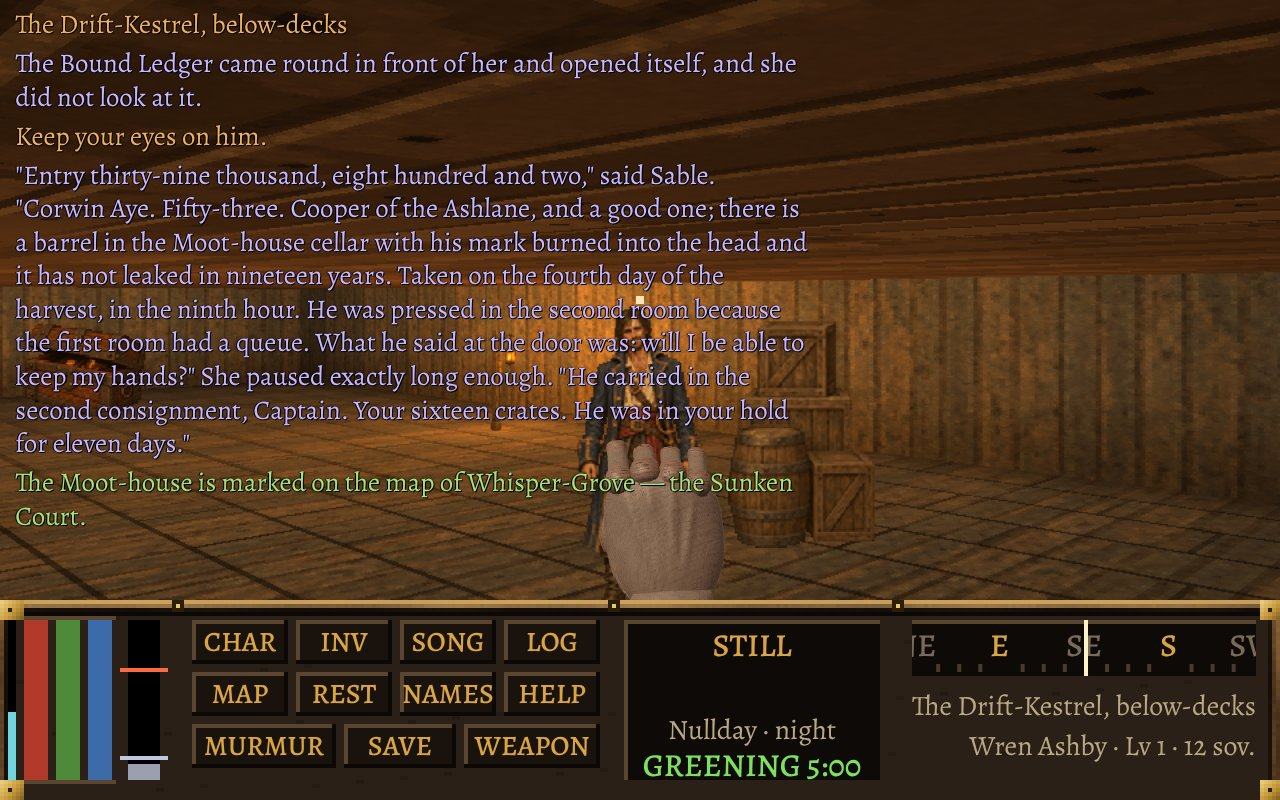
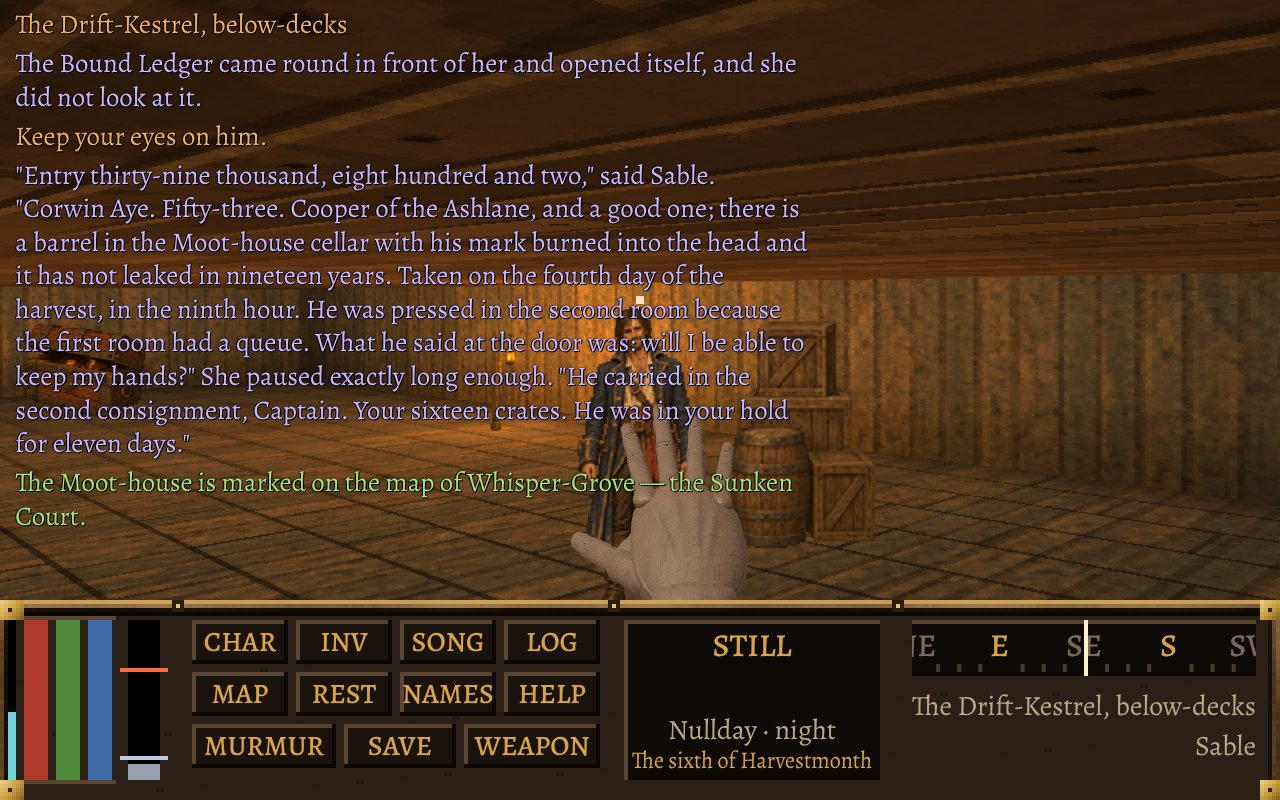
Sable's good hand lies flat on the lid: a hand at rest, open, in both sets of hands (written first)
"She put her good hand flat on the lid" (Book One, MS l. 4518). It had been drawn as a fist. One new hand
picture: PIXELHANDS110.restArt / restHand (the Songs' open hand turned to lie flat, the wrist bent so the
forearm falls down the view), the same pose for the sculpted hands (poses 'r', BODY21.sculptRest), and
js/boots125.js asks for it where the pose is the lid.

test/pixelhands110: a hand at rest (size, fingers apart, the switch, the sculpted pose). test/boots125 10c.
tools/dev/shots125b.js: VIEW=classic and HANDS=pixel|plain, to look at each style.

The record of the cheap wins, Vol VIII, README with a picture, ROADMAP, the Phase 125b record.

Claude-Session: https://claude.ai/code/session_01UK584LzooQWiw2H2iZPqku

Changed region(s): [[0.4375, 0.5, 0.5938, 0.75], [0.75, 0.9062, 0.9688, 0.9688], [0.5, 0.9375, 0.6875, 0.9688]]

diff --git a/js/pixelhands110.js b/js/pixelhands110.js
@@ -897,6 +897,38 @@ const PIXELHANDS110 = (() => {
     return true;
   }
 
+  // ---------------------------------------------------------------- a hand at rest: open, laid flat (js/boots125.js)
+  // (26 Nov) "She put her good hand flat on the lid" (Book One, MS l. 4518). An open hand laid flat on something at desk
+  // height, seen from above and behind: the back of the hand up, the fingers pointing away, the forearm down out of the
+  // bottom of the view. To the fist's own measure (climbArt above), 4 picture pixels to a view pixel.
+  const RS = { w: 84, h: 150, px: 42, py: 40 };     // in view pixels: the picture's size, where the middle of the palm is
+  function restPose(left) {
+    const P = { f: frame([0, 0.66, -0.7513], [0, 0.7513, 0.66]), s: 34 * 4 / 9.2 / GR, ax: 0, ay: 0, D, mirror: !!left, roll: left ? -4 : 4 };
+    const c = scr(P, PALM_C); P.ax = RS.px * 4 / GR - c[0]; P.ay = RS.py * 4 / GR - c[1];
+    return P;
+  }
+  function restArt(look, left) {
+    const ck = KEYP + 'r|' + (left ? 'L' : 'R') + '|' + lookKey(look), cache = FP87.cache; let hit = cache.get(ck); if (hit) return hit;
+    const Wf = RS.w * 4, Hf = RS.h * 4; plain(Wf, Hf);
+    const wear = wearOf(look), S = Scene();
+    // (the wrist bends, flexW: the forearm falls down the view; straight on along the hand it would come at the eye and fill the view)
+    addHand(S, restPose(left), { curl: 'open', wear, glass: !!left && !!(look && look.glassArm), foreLen: 46, flexW: 34 });
+    const out = finish(compose(shadeScene(S, wear), null), 0, Wf, Hf);
+    hit = { canvas: out.canvas, emis: out.emis };
+    if (cache.size > 40) cache.clear();
+    cache.set(ck, hit);
+    return hit;
+  }
+  // i: 0 the left hand, 1 the right; (x, y): where the middle of the palm lies, in view pixels
+  function restHand(ctx, i, x, y) {
+    if (!on()) return false;
+    let look = null; try { look = typeof GEARLOOK21 === 'object' && G.player ? GEARLOOK21.of(G.player) : null; } catch (e) { look = null; }
+    if (!look) return false;
+    const a = restArt(look, i === 0);
+    ctx.drawImage(a.canvas, x - RS.px, y - RS.py, RS.w, RS.h);
+    return true;
+  }
+
   // ---------------------------------------------------------------- the arm behind a shield (js/body21.js)
   // Phase 111. The shield rides the left forearm, its face toward you: the forearm comes up from below behind it, the palm
   // against its back, and the four fingers are hooked over its rim onto the face. Two pictures, to the same measure: the
@@ -931,9 +963,9 @@ const PIXELHANDS110 = (() => {
   const PALM_C = [0, 5, 0];
   function poses(kind, id, look) {
     if (!_paint) return null;
-    const lone = kind === 'c' || kind === 'o';
+    const lone = kind === 'c' || kind === 'o' || kind === 'r';
     const r = lone ? null : kind === 'w' ? _paint(id, look, { noHands: true }) : _paintHands(look, id, { noHands: true }); if (!r && !lone) return null;
-    const Wf = lone ? (kind === 'c' ? CL.w : OA.w) * 4 : r.canvas.width, Hf = lone ? (kind === 'c' ? CL.h : OA.h) * 4 : r.canvas.height; plain(Wf, Hf);
+    const LN = kind === 'c' ? CL : kind === 'r' ? RS : OA, Wf = lone ? LN.w * 4 : r.canvas.width, Hf = lone ? LN.h * 4 : r.canvas.height; plain(Wf, Hf);
     const wear = wearOf(look), out = { w: Wf, h: Hf, weapon: kind === 'w' ? r.canvas : null, hands: [] };
     const give = (P, curl, anchor, glass, dev, flexW) => {
       const a = scr(P, anchor); let arm = [0, -1, 0]; if (dev) arm = rot(arm, [0, 0, 1], dev * D2R); if (flexW) arm = rot(arm, [1, 0, 0], flexW * D2R);
@@ -946,6 +978,14 @@ const PIXELHANDS110 = (() => {
       give(P, 'grip', GRIP_C, left && !!(look && look.glassArm), 0, 0);
       // (a forearm that ran on along the hand would come at the eye and fill the view: the wrist bends, and it hangs nearly straight down)
       const h = out.hands[0], a = [h.arm[0] * 0.5, -0.97, 0.06], l = Math.hypot(a[0], a[1], a[2]); h.arm = [a[0] / l, a[1] / l, a[2] / l];
+      return out;
+    }
+    if (kind === 'r') {
+      // an open hand laid flat (restArt above): id 'L' the left hand, 'R' the right
+      const left = id === 'L', P = restPose(left);
+      give(P, 'open', PALM_C, left && !!(look && look.glassArm), 0, 0);
+      // (as in the climb: the wrist bends back, so the forearm falls down the view and does not come at the eye)
+      const h = out.hands[0], a = [h.arm[0] * 0.5, -0.95, 0.3], l = Math.hypot(a[0], a[1], a[2]); h.arm = [a[0] / l, a[1] / l, a[2] / l];
       return out;
     }
     if (kind === 'o') {
@@ -1057,6 +1097,6 @@ const PIXELHANDS110 = (() => {
     return finish(compose(shadeScene(S, wear), null), 0, spec.w, spec.h);
   }
 
-  return { FLAG, GR, on, setOn, paint, paintHands, climbHand, climbArt, offArm, songCanvas, poses, CL, OA, wearOf, ROW, stats, MRG, original: () => (FP87 && FP87._px110) || null, _raise: (o) => { RAISE = Object.assign({}, RAISE, o); }, _dev: { hands: devHands } };
+  return { FLAG, GR, on, setOn, paint, paintHands, climbHand, climbArt, restHand, restArt, RS, offArm, songCanvas, poses, CL, OA, wearOf, ROW, stats, MRG, original: () => (FP87 && FP87._px110) || null, _raise: (o) => { RAISE = Object.assign({}, RAISE, o); }, _dev: { hands: devHands } };
 })();
 if (typeof window !== 'undefined') window.PIXELHANDS110 = PIXELHANDS110;

diff --git a/tools/dev/shots125b.js b/tools/dev/shots125b.js
@@ -2,6 +2,7 @@
 // off. Medium preset, the 3D view, the sculpted hands. Each moment is staged as test/boots125.test.js stages it and
 // stepped to its beat; the picture is the visible game canvas (the 3D view, the HUD and the captions) as a JPEG, q 85.
 //   PREVIEW_URL=http://127.0.0.1:4228 tools/dev/browser.sh node tools/dev/shots125b.js [OUTDIR] [needle hold bolts rope names coda frame off]
+//   env: VIEW=classic (not the 3D view), HANDS=pixel or plain (not the sculpted hands)
 // No Math.random: the game's own is pinned for each frame, as test/cover105.test.js pins it.
 'use strict';
 const { chromium } = require(process.env.PLAYWRIGHT_MODULE || '/opt/npm-tools/node_modules/playwright');
@@ -15,18 +16,18 @@ const want = (k) => !ONLY.length || ONLY.includes(k);
   const page = await browser.newPage({ viewport: { width: 1280, height: 800 } });
   page.setDefaultTimeout(900000);
   page.on('pageerror', (e) => console.log('[pageerror]', e.message));
-  await page.addInitScript(() => { window.__r3d21 = { automation: true, force: true }; try { localStorage.setItem('octave.r3d21.v1', JSON.stringify({ mode: 'on', cap: 80 })); } catch (e) { /* none */ } });
+  if (process.env.VIEW !== 'classic') await page.addInitScript(() => { window.__r3d21 = { automation: true, force: true }; try { localStorage.setItem('octave.r3d21.v1', JSON.stringify({ mode: 'on', cap: 80 })); } catch (e) { /* none */ } });
   await page.goto((process.env.PREVIEW_URL || 'http://127.0.0.1:4228') + '/?nosw=1', { timeout: 600000, waitUntil: 'domcontentloaded' });
   await page.waitForFunction(() => typeof Engine !== 'undefined' && Engine.sprites.proctor && G.state === 'title', null, { timeout: 600000, polling: 500 });
   const hit = (sel) => page.locator(sel).first().dispatchEvent('click');
   await hit('#btn-new'); await page.locator('#cname').fill('Wren Ashby'); await hit('#c-next'); await hit('.classlist button'); await hit('#c-next'); await hit('#c-next');
   for (let i = 0; i < 20 && !(await page.locator('#c-go').count()); i++) { const c = page.locator('#create-panel .list button').first(); if (await c.count()) await c.dispatchEvent('click'); else await page.locator('#create-panel button').filter({ hasText: /Continue|Begin|Confirm|Accept/ }).first().dispatchEvent('click'); }
   await hit('#c-go'); await hit('#btn-intro-skip'); await page.waitForTimeout(600);
-  await page.evaluate(() => {
+  await page.evaluate((HANDS) => {
     window.requestAnimationFrame = () => 0;
     window.__ev = []; window.showEvent = (t, b, c) => { window.__ev.push({ t, b, c }); };
     REEDS.forceManual = true;
-    PRESETS.apply('medium'); GFX.sculptedHands = true; GFX.heroHands = true;
+    PRESETS.apply('medium'); GFX.sculptedHands = HANDS !== 'pixel' && HANDS !== 'plain'; if (HANDS === 'plain') GFX.pixelHands = false; GFX.heroHands = true;
     const pin = (fn) => { const rn = Math.random; let sd = 11; Math.random = () => (sd = (sd * 16807) % 2147483647) / 2147483647; try { return fn(); } finally { Math.random = rn; } };
     window.SH = {
       step(n) { for (let i = 0; i < n; i++) { G.state = 'play'; G.keys = {}; pin(() => update(0.05)); } },
@@ -39,7 +40,7 @@ const want = (k) => !ONLY.length || ONLY.includes(k);
         const cs = G.maps.rootvault.casingRoom; loadMap('rootvault', { x: cs.cx + 0.5, y: cs.cy + 1.9, dir: -Math.PI / 2 }); G.state = 'play'; RITE43.stageVault(G.map);
       },
     };
-  });
+  }, process.env.HANDS || '');
   const canvasBox = async () => page.evaluate(() => { const c = [...document.querySelectorAll('canvas')].filter((x) => x.offsetWidth > 300).sort((a, b) => b.offsetWidth * b.offsetHeight - a.offsetWidth * a.offsetHeight)[0]; const r = c.getBoundingClientRect(); return { x: r.x, y: r.y, width: r.width, height: r.height }; });
   const shot = async (name) => { const clip = await canvasBox(); const f = path.join(OUT, 'p125b-' + name + '.jpg'); await page.screenshot({ path: f, type: 'jpeg', quality: 85, clip }); console.log('wrote ' + f); };
   const ev = (fn, arg) => page.evaluate(fn, arg);

diff --git a/js/boots125.js b/js/boots125.js
@@ -214,7 +214,7 @@ const BOOTS125 = (function () {
   const MOMENTS = { needle: 1, hold: 2, bolts: 3, rope: 4, names: 5, coda: 6 };
   const BIT = { needle: 1, hold: 2, bolts: 4, rope: 8, names: 16, coda: 32 };
   const S = { at: null, part: 1, beat: null, bi: -1, t: 0, clock: 0, home: null, anchor: null, opts: null, def: null, card: false, wait: false, slips: {}, auto: {}, log: [], input: { use: false, song: false }, press: 0, held: 0, weapon: null, x: {} };
-  const stats = { props: 0, slips: 0 };
+  const stats = { props: 0, slips: 0, rest: 0, fist: 0 };
   const active = () => S.at;
   // whose boots, for the HUD's name line (js/game.js drawHUD): the hero's own name as the book writes it, or null
   const hudName = () => { try { const h = S.at && S.def && HEROES[S.def.hero]; return (h && h.name) || null; } catch (e) { return null; } };
@@ -614,12 +614,20 @@ const BOOTS125 = (function () {
     const pose = S.def.pose === 'rail' && S.weapon === 'axe' ? null : S.def.pose;
     if (pose !== 'stool' && pose !== 'rail' && pose !== 'lid') return;
     const VH = typeof VIEW_H === 'number' ? VIEW_H : 150, y = pose === 'rail' ? VH - 44 : VH - 34;
-    const at = pose === 'lid' ? [[1, 150, VH - 30]] : [[0, 96, y], [1, 194, y]];
+    // (26 Nov) the lid: "She put her good hand flat on the lid" (MS 4518): one open hand laid flat, its palm at (x, y)
+    const rest = pose === 'lid', at = rest ? [[1, 172, VH - 15]] : [[0, 96, y], [1, 194, y]];
     let drew = false;
     for (const [i, x, yy] of at) {
       let ok = false;
-      try { ok = typeof BODY21 === 'object' && !!BODY21.sculptClimb && !!BODY21.sculptClimb(ctx, i, x, yy); } catch (e) { ok = false; }
-      if (!ok) try { ok = typeof PIXELHANDS110 === 'object' && !!PIXELHANDS110.climbHand(ctx, i, x, yy); } catch (e) { ok = false; }
+      if (rest) {
+        try { ok = typeof BODY21 === 'object' && !!BODY21.sculptRest && !!BODY21.sculptRest(ctx, i, x, yy); } catch (e) { ok = false; }
+        if (!ok) try { ok = typeof PIXELHANDS110 === 'object' && !!PIXELHANDS110.restHand && !!PIXELHANDS110.restHand(ctx, i, x, yy); } catch (e) { ok = false; }
+        if (ok) stats.rest++;
+      } else {
+        try { ok = typeof BODY21 === 'object' && !!BODY21.sculptClimb && !!BODY21.sculptClimb(ctx, i, x, yy); } catch (e) { ok = false; }
+        if (!ok) try { ok = typeof PIXELHANDS110 === 'object' && !!PIXELHANDS110.climbHand(ctx, i, x, yy); } catch (e) { ok = false; }
+        if (ok) stats.fist++;
+      }
       drew = drew || ok;
     }
     try { if (typeof BODY21 === 'object' && BODY21.sculptClimbEnd) BODY21.sculptClimbEnd(ctx); } catch (e) { /* none */ }

diff --git a/test/pixelhands110.test.js b/test/pixelhands110.test.js
@@ -142,6 +142,24 @@ async function step(text, fn) { try { await fn(); passed++; console.log('PASS ' 
       assert.ok(r.L.b > r.L.r + 40 && r.R.r > r.R.b, 'the glass left, the right as worn ' + JSON.stringify(r));
     });
 
+    await step('a hand at rest: open and laid flat, its fingers apart; the same pose for the sculpted hands', async () => {
+      const r = await page.evaluate(() => {
+        const p = G.player; p.glassed = true; const look = GEARLOOK21.of(p), RS = PIXELHANDS110.RS;
+        const R = PIXELHANDS110.restArt(look, false), C = PIXELHANDS110.climbArt(look, false);
+        // the most separate fingers any one row of the picture crosses: an open hand's fingers stand apart, a fist's do not
+        const fingers = (cv, y0, y1) => { const d = cv.getContext('2d').getImageData(0, 0, cv.width, cv.height).data; let best = 0; for (let y = y0 * 4; y < y1 * 4; y++) { let runs = 0, inRun = false; for (let x = 0; x < cv.width; x++) { const o = d[(y * cv.width + x) * 4 + 3] === 255; if (o && !inRun) runs++; inRun = o; } best = Math.max(best, runs); } return best; };
+        const c = document.createElement('canvas'); c.width = 320; c.height = 150; const x = c.getContext('2d');
+        const okOn = PIXELHANDS110.restHand(x, 1, 160, 120);
+        const d = x.getImageData(120, 80, 80, 70).data; let n = 0; for (let i = 3; i < d.length; i += 4) if (d[i] === 255) n++;
+        GFX.pixelHands = false; const okOff = PIXELHANDS110.restHand(x, 1, 160, 120); GFX.pixelHands = true;
+        const P = PIXELHANDS110.poses('r', 'R', look);
+        return { size: R.canvas.width + 'x' + R.canvas.height, want: RS.w * 4 + 'x' + RS.h * 4, fRest: fingers(R.canvas, 0, RS.py), fFist: fingers(C.canvas, 0, 40), okOn, okOff, n, pose: P && P.hands.length === 1 ? P.hands[0].curl + (P.hands[0].left ? ' L' : ' R') : String(P && P.hands.length) };
+      });
+      assert.ok(r.size === r.want && r.okOn === true && r.okOff === false && r.n > 400, JSON.stringify(r));
+      assert.ok(r.fRest >= 4 && r.fFist <= 2, 'the open hand\'s fingers stand apart, the fist\'s do not ' + JSON.stringify(r));
+      assert.ok(r.pose === 'open R', 'the sculpted hands are given the same open hand ' + JSON.stringify(r));
+    });
+
     await step('Options row; Original off, every other preset on; a change rebuilds the pictures', async () => {
       const r = await page.evaluate(() => {
         PRESETS.apply('medium');

diff --git a/js/body21.js b/js/body21.js
@@ -1236,6 +1236,13 @@ const BODY21 = (() => {
     const CL = PIXELHANDS110.CL, m = REC.inv.multiply(ctx.getTransform()), dx = x + 16 - CL.gx, dy = y + 2 - CL.gy, s = 0.25;
     return SCULPTED112.place('c', i === 0 ? 'L' : 'R', REC.look, [m.a * s, m.b * s, m.c * s, m.d * s, m.a * dx + m.c * dy + m.e, m.b * dx + m.d * dy + m.f]);
   }
+  // (26 Nov) an open hand laid flat (PIXELHANDS110.restArt), for the sculpted hands: (x, y) is the middle of the palm.
+  // Drawn with the climb's own flush (sculptClimbEnd).
+  function sculptRest(ctx, i, x, y) {
+    if (!sculptOn() || !PIXELHANDS110.RS) return false;
+    const RS = PIXELHANDS110.RS, m = REC.inv.multiply(ctx.getTransform()), dx = x - RS.px, dy = y - RS.py, s = 0.25;
+    return SCULPTED112.place('r', i === 0 ? 'L' : 'R', REC.look, [m.a * s, m.b * s, m.c * s, m.d * s, m.a * dx + m.c * dy + m.e, m.b * dx + m.d * dy + m.f]);
+  }
   function sculptClimbEnd(ctx) {
     if (!sculptOn()) return false;
     const cv = SCULPTED112.flush(sculptLight()); if (!cv) return false;
@@ -1806,7 +1813,7 @@ void main() {
   // (Phase 125b) a map change and a load make every record before them stale
   if (typeof loadMap === 'function') { const _lm = loadMap; loadMap = function () { invalidate(); return _lm.apply(this, arguments); }; }
   if (typeof restoreGame === 'function') { const _rg = restoreGame; restoreGame = function () { invalidate(); return _rg.apply(this, arguments); }; }
-  return { invalidate, staleRecord, early, setExtra, sculptLight, sculptAnim, sculptClimb, sculptClimbEnd, owned: (c) => OWNED.get(c) || null, set, setSwitch, on, stats, META, K, LT, WS, segment, build, shieldArt, offArmArt, legArt, legsPose, headArt, headPose, shieldPose, armSpec, clearCaches, hemY,
+  return { invalidate, staleRecord, early, setExtra, sculptLight, sculptAnim, sculptClimb, sculptRest, sculptClimbEnd, owned: (c) => OWNED.get(c) || null, set, setSwitch, on, stats, META, K, LT, WS, segment, build, shieldArt, offArmArt, legArt, legsPose, headArt, headPose, shieldPose, armSpec, clearCaches, hemY,
     R3B, FX3, LB, lbBuild, r3dOn, look: () => (GL() && G.player ? GL().of(G.player) : null), visibleWeapons, pix, part, poly, ell, cap, render, rampOf, onRamp, PATTERN };
 })();
 if (typeof window !== 'undefined') window.BODY21 = BODY21;

diff --git a/test/boots125.test.js b/test/boots125.test.js
@@ -326,6 +326,8 @@ function verbatim(t, lines) {
       out.active = BOOTS125.active() === 'names'; T.press(0);
       out.toCorwin = T.beat('corwin');
       out.hint = T.heard(/^Keep your eyes on him\.$/);
+      // (26 Nov) her good hand lies flat and open on the lid, not a fist
+      { const st = BOOTS125.stats; st.rest = 0; st.fist = 0; GFX.heroHands = true; render(); out.restN = st.rest; out.fistN = st.fist; }
       T.tap('use');
       Engine.cam.pitch = 242.42 * Math.tan(-15 * Math.PI / 180); T.step(3, 0.05);
       const e1 = T.last(); out.slip = /An Echo/.test(e1.t) && /she did not look at it/.test(e1.b);
@@ -346,6 +348,7 @@ function verbatim(t, lines) {
       return out;
     });
     check(names.tags && names.three && names.card && names.active && names.toCorwin && names.hint, '10. Sable\'s boots after "Go on, then"; "Keep your eyes on him."');
+    check(names.restN > 0 && names.fistN === 0, '10c. "She put her good hand flat on the lid" (MS 4518): an open hand laid flat is drawn, and no fist (' + names.restN + ' open, ' + names.fistN + ' fists)');
     check(names.slip && names.again, '10. looking 15 degrees down during an entry is a slip, "she did not look at it", and the same entry again');
     check(names.toEnd && names.inOrder && names.whole && names.iknow, '10. the three entries are MS 4556, 4560 and 4564 whole, in that order; "Your engineer told me."');
     check(names.filed && names.frag && names.callingNone, '10. the filed card follows; no fragment is spent');

diff --git a/index.html b/index.html
@@ -213,9 +213,9 @@
   <script src="js/gearlook21.js?v=17"></script>
   <script src="js/card21.js?v=5"></script>
   <script src="js/photo21.js?v=2"></script>
-  <script src="js/body21.js?v=28"></script>
+  <script src="js/body21.js?v=29"></script>
   <script src="js/fp87.js?v=25"></script>
-  <script src="js/pixelhands110.js?v=5"></script>
+  <script src="js/pixelhands110.js?v=6"></script>
   <script src="js/sculpted112.js?v=2"></script>
   <script src="js/sheepwalk22.js?v=4"></script>
   <script src="js/hanger22.js?v=8"></script>
@@ -315,7 +315,7 @@
   <script src="js/cover105.js?v=5"></script>
   <script src="js/sharp107.js?v=3"></script>
   <script src="js/edges107.js?v=3"></script>
-  <script src="js/boots125.js?v=8"></script>
+  <script src="js/boots125.js?v=9"></script>
   <script src="js/callings126.js?v=2"></script>
   <script src="js/mast123.js?v=4"></script>
 </body>

diff --git a/sw.js b/sw.js
@@ -18,7 +18,7 @@
 //
 // <precache:begin>
 // Generated by tools/pwa/precache.js from index.html and the asset folders. Do not edit by hand; run the tool.
-const BUILD = "8e75851bcb39";
+const BUILD = "5a48d9ca0735";
 const MEDIA_BUILD = "11572a618583";
 const MEDIA_BYTES = 476226374;
 const CORE = [
@@ -216,9 +216,9 @@ const CORE = [
   "js/blacksquare96.js?v=1",
   "js/boar48.js?v=2",
   "js/boards82b.js?v=4",
-  "js/body21.js?v=28",
+  "js/body21.js?v=29",
   "js/books.js?v=4",
-  "js/boots125.js?v=8",
+  "js/boots125.js?v=9",
   "js/calendar11.js?v=3",
   "js/callings126.js?v=2",
   "js/cantabile17.js?v=6",
@@ -353,7 +353,7 @@ const CORE = [
   "js/pilgrim95.js?v=3",
   "js/pixel3d.js?v=3",
   "js/pixelfolk75.js?v=3",
-  "js/pixelhands110.js?v=5",
+  "js/pixelhands110.js?v=6",
   "js/places97.js?v=5",
   "js/playtools.js?v=31",
   "js/portraits.js?v=35",

diff --git a/ROADMAP.md b/ROADMAP.md
@@ -240,7 +240,7 @@ The owner, 21 Nov: "give me a prompt for the next session using fable 5.2 on the
 | 1 (done, 23 Nov) | **116** roofs for the later places; **123** the mooring mast where the book has it | Stone and snow, lead, mossed slate; the iron mast over the quarry |
 | 2 (124: the trial is done and **nothing was built**; with the owner for ruling, see `story/Game Layer/Phase 124 - Faces of their own, the trial (findings, for ruling).md`. **124b done, 24 Nov:** the recoloured townsfolk keep their skin; Pennick has a figure) | **124** Faces of their own (portraits in code for the seventy-nine people who borrow two faces); **125** who the traveller is, and "in their boots" (Audit 2). **125a done, 24 Nov: the six strangers; Glass-Hand and Catalogue Clerk (`story/Game Layer/Phase 125a - The six strangers.md`; `test/strangers125.test.js`, 24 checks). **125b done, 24 Nov: in their boots: six moments of Book One played in the hero's own boots, the traveller-sings coda and the Rite's two minigames removed, old saves migrated, the first-frame fault fixed (`story/Game Layer/Phase 125b - In their boots.md`; `test/boots125.test.js`, 67 checks).** Faces of their own: ruled 24 Nov; **124c done: the first three painted portraits are in, and each later one is a file and a table row (`test/own124.test.js`, 11 checks). 254 people still borrow (110 faces and pools to paint).** **124d done, 24 Nov: the next six (Perpetua Lisle, Ada Pellow, Marrit Pell, Orrin Pale, Brenna Loft, Dunna Sedge), made on the owner's Hugging Face; 246 still borrow; about nine pictures a day on the free account (`story/Game Layer/Phase 124d - Faces of their own, the next six.md`).** **124e done, 25 Nov: the next five (Garrow Finch, Nessa Tolliver, Agnes Tull, Ambrose Vettle, Sim Fletch); 241 still borrow; the prompts for every face left are in `tools/faces/`.** | A face for everyone; new likenesses; the hero's own hands at the book's great moments |
 | 3 (126 done, 25 Nov: see `story/Game Layer/Phase 126 - The callings, part one.md`; 126b and 127 to come) | **126** the callings, part one (Blade, Cantor, Corsair) ✓; **127** part two (Archivist, Penitent, Quarry-Hand) (Audit 3) | Each calling's own sight drawn in the world; the quarry at work |
-| cheap wins (26 Nov, the owner: "take care of the cheap wins yourself"; see `story/Game Layer/Cheap wins of 26 Nov 2026.md`) | [x] the bar names the hero in their boots; [x] the Kestrel in the sky is the book's ship; [ ] faces for the crowds; [ ] open hands for the needle and the lid; [ ] stronger sights on a phone (if asked) | Small things to look at on a phone the same day |
+| cheap wins (26 Nov, the owner: "take care of the cheap wins yourself"; see `story/Game Layer/Cheap wins of 26 Nov 2026.md`) | [x] the bar names the hero in their boots; [x] the Kestrel in the sky is the book's ship; [x] Sable's open hand on the lid; [ ] faces for the crowds; [ ] a pinch for the needle; [ ] stronger sights on a phone (if asked) | Small things to look at on a phone the same day |
 | 4 | **114** Redoubt Zero and the Edge, the dawn Refusal (Audit 8); **128** the roads filled (Audit 5) | A new place; the Amalgam; wayside art; the old road-walkers redrawn |
 | 5 | **129** one real choice in every big scene, the scene at the fire, a lighter road (Audit 4 and 10; folds in 118); **130** side quests for Sol-Luminary and the Rift (Audit 6) | The epilogue remembering; new gear, each with its own look |
 | 6 | **131** the run without a person, the short reading setting (Audit 7); then the owner's two hours | |

diff --git a/story/Game Layer/Cheap wins of 26 Nov 2026.md b/story/Game Layer/Cheap wins of 26 Nov 2026.md
@@ -28,8 +28,22 @@ The owner, 26 Nov, 7:28 am: "I'm going to install it on my phone this morning an
 
 ![The same in the 3D view](../../screenshots/cw26-kestrel-sky-3d.jpg)
 
+## 3. Sable's good hand lies flat on the lid
+
+**What you see.** In Sable's boots in the hold (the three names) her hand was drawn as a fist at the bottom of the view. It is now an open hand laid flat, the back of the hand up and the fingers apart, in both sets of hands (the pixel hands and the sculpted hands). With plain hands (both switched off) nothing is drawn there, as before.
+
+**Lore.** "She put her good hand flat on the lid" (Book One, full manuscript l. 4518); the book does not move it while she reads the names. Her other arm is the "broken wing" (l. 4600).
+
+**How.** One new hand picture, a hand at rest: `PIXELHANDS110.restArt` and `restHand` (the open hand the Songs already use, turned to lie flat, the wrist bent so the forearm falls down the view), the same pose handed to the sculpted hands (`PIXELHANDS110.poses('r', ...)`, `BODY21.sculptRest`), and `js/boots125.js` asks for it where the pose is the lid. Any later scene can use it.
+
+**Not done, and why.** Kaelen's needle is still the plain right hand with the copper wire running from it to the needle. A pinch is a different hand again (finger and thumb together), in two styles, and is not a cheap win. It is left for the hands' next piece.
+
+**Tests.** `test/pixelhands110`: a new check (the picture's size, at least four fingers standing apart where a fist has none, drawn when the switch is on and not when off, the same open right hand given to the sculpted hands). `test/boots125` 10c: in the names an open hand is drawn and no fist. Both written first and seen failing. Suites run: pixelhands110 (alone), pixelhands111, sculpted112, hands122, body21, fp-hands, fp-feel, boots125, strangers125, and light21 alone. All green.
+
+![Sable's hand on the lid, before and after](../../screenshots/cw26-lid-hand.jpg)
+
 ## Still to come
 
-3. Faces for the crowds: each person in a shared crowd picks one of several painted faces by a fixed rule, never by chance.
-4. Proper open-hand poses for Kaelen's needle and Sable's hand on the lid (owed from Phase 125b).
-5. Stronger sights on a phone, only if the owner finds them too faint.
+- Faces for the crowds: each person in a shared crowd picks one of several painted faces by a fixed rule, never by chance.
+- A pinch for Kaelen's needle.
+- Stronger sights on a phone, only if the owner finds them too faint.

diff --git a/README.md b/README.md
@@ -573,6 +573,10 @@ The plain link works on phones too: a phone or tablet starts in touch mode by it
 
 ![In a hero's boots the bar names the hero](screenshots/cw26-boots-hud.jpg)
 
+And in Sable's boots her hand lies open on the crate's lid, as the book has it ("She put her good hand flat on the lid"), where it had been a fist.
+
+![Sable's hand on the lid, before and after](screenshots/cw26-lid-hand.jpg)
+
 **The callings, part one (Phase 126).** Your calling now notices things. Stand still for a moment and your trade's own sight comes up over the world (Options: "Your calling's sight", hidden / when you stand still / always). A Glass-Hand hears the bells: the pale lilac core inside every Legionnaire's bronze, the brass hand-press at a proctor's belt, the Factor's green lenses. Lay your glass hand on a Legionnaire's bell and the glass drinks its alarm; the tideline climbs, and for a minute your hand rings so that any bell near you hears it, and tells Vosk at her morning walk. A Cantor hears who is humming and how true: the night-hummers at the crossings, Bettany's wide wobble, Old Tam's short true note, every lit hush-lamp's thin whistle, the choir's unbroken line and the Pure Note lying over the town like a lid. A Cantor's murmur stays under the Narrow, above the Hush and below everything that listens, and can hum the tending note into a companion's hands, or the Root note into Hob Wendle's at the Grafters' round. A Corsair reads loads and lines: the Kestrel riding heavy at her mast, where a scaffold or a chandelier will land when its lashings go, and on a deck in the air which grapnel has bitten deepest; a hook can be slipped by hand, slowly and silently, where the axe is quick and loud, and on cargo night a Corsair can sign to Mags behind the clerk's back. Every other calling plays exactly as before. On cargo night it is Vane, as in the book, who says "Annet. You're going home."
 
 ![Phase 126: the Glass-Hand's sight in the quarry, two cores through the bronze (3D view)](screenshots/p126-glass-cores-3d.jpg)

diff --git a/story/World Bibles/Vol VIII - The Game Layer.md b/story/World Bibles/Vol VIII - The Game Layer.md
@@ -2473,7 +2473,8 @@ Record: `story/Game Layer/Phase 124d - Faces of their own, the next six.md` (eve
 Record: `story/Game Layer/Cheap wins of 26 Nov 2026.md`. The owner, 26 Nov: "take care of the cheap wins yourself". **Built:** (1) in a hero's boots (Phase 125b) the bottom bar names the hero (`BOOTS125.hudName()`); (2) the skyship that crosses the sky over the Woods (`js/sky.js`, drawn again by `js/light21.js` in the 3D view) is redrawn as the book's *Kestrel*.
 - **Canon, with its source:** the *Kestrel* is "small for a skyship, sixty feet perhaps, brass-ribbed and oak-planked, with a patched grey envelope and four lift-tanks slung beneath her keel glowing the faint cobalt of drift-glass" (Book One, full manuscript l. 674). She has four tanks in Harvestmonth 419; Book Three's "three tanks" (`Book Three/Part Two Ch5-8.md:19`) is later and is not shown. She has no masts, sails or pennants in any book; the "mast-ladder" is the mooring mast's. The heroes' names on the bar are the books' own.
 - **Invented (the game's own):** nothing. The gun mount forward and the lanterns at bow and stern were in the old drawing and are kept (the bow lantern blinks, as it always has).
-- **Not done:** the tanks' glow after dark.
+- **Added the same day (3):** in Sable's boots her hand on the lid is an open hand laid flat, not a fist: "She put her good hand flat on the lid" (Book One, full manuscript l. 4518). One new hand picture, a hand at rest, in both sets of hands.
+- **Not done:** the tanks' glow after dark; a pinch for Kaelen's needle.
 
 #### Phase 126: the callings, part one (built, 25 Nov)
 Record: `story/Game Layer/Phase 126 - The callings, part one.md`; design: `Phase 126 - The callings, part one (design, for the builder).md`. **Built:** one mechanism (`js/callings126.js`): each calling's *sight*, drawn over the world when you stand still (Options: hidden / when you stand still / always; off in Original and Low), and its *act* on the use key. Glass-Hand, Cantor and Corsair registered; Phase 127 adds the other three.
